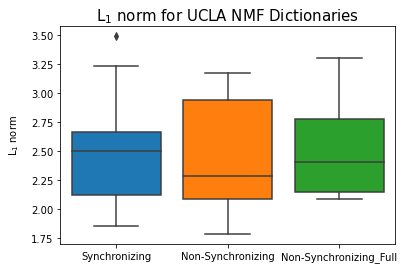
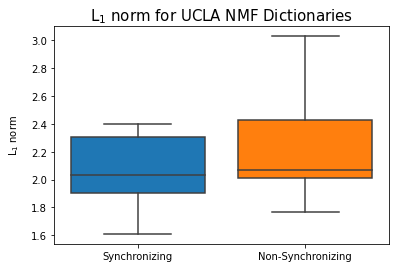
update

Changed region(s): [[0.0, 0.0896, 1.0, 0.9851], [0.2127, 0.0299, 0.9114, 0.0896], [0.2734, 0.1194, 0.3038, 0.1493]]

diff --git a/GHM/GHM_NMF.py b/GHM/GHM_NMF.py
@@ -33,7 +33,6 @@ b = WSD.copy()
 list_keys = list(WSD.keys())
 y = b['label']
 df_True = b[y == 1]
-print(df_True.shape)
 df_False = b[y == 0]
 title1 = 'Adj_Matrix for NWS_GHM Sync'
 title2 = 'Adj_Matrix for NWS_GHM Non-Sync'
@@ -43,7 +42,6 @@ title2 = 'Adj_Matrix for NWS_GHM Non-Sync'
 
 
 c_True = df_True.iloc[0:3972, df_True.columns.get_loc('E_0_0'):df_True.columns.get_loc('S_0_0')]
-print(c_True.shape)
 c_False = df_False.loc[:,'E_0_0':'E_24_24']
 X_True = c_True.values.transpose()
 X_False = c_False.values.transpose()
@@ -58,7 +56,7 @@ W_True, H_True = NMF_Class.ALS(X=X_True,
            compute_recons_error=True,
            subsample_ratio=1)
 
-print(f"Shape of X_True: {X_True.shape}\nShape of W_True: {W_True.shape}\nShape of H_True: {H_True.shape}")
+# print(f"Shape of X_True: {X_True.shape}\nShape of W_True: {W_True.shape}\nShape of H_True: {H_True.shape}")
 
 W_False, H_False = NMF_Class.ALS(X=X_False, 
            n_components=16, # Reconstruction Error reduces as n_components increases
@@ -73,7 +71,7 @@ W_False, H_False = NMF_Class.ALS(X=X_False,
 
 
 
-print(f"Shape of X_False: {X_False.shape}\nShape of W_False: {W_False.shape}\nShape of H_False: {H_False.shape}")
+# print(f"Shape of X_False: {X_False.shape}\nShape of W_False: {W_False.shape}\nShape of H_False: {H_False.shape}")
 Display_Class.display_dictionary(title = title1, W=X_True[:,:100], figsize=[20,20])
 Display_Class.display_dictionary(title = title2, W=X_False[:,:100], figsize=[20,20])
 Display_Class.display_dict_and_graph(title='W_True-25-walks-NWS-importance',
@@ -97,13 +95,12 @@ n=8
 Display_Class.plot_adj_to_graph_deg(W_True, W_False, n, True, title = 'NWS_GHM_Dict_to_Graph_Deg')
 
 true_norm = np.linalg.norm(W_True.T, ord=1, axis=1)
-print(true_norm)
 false_norm = np.linalg.norm(W_False.T, ord=1, axis=1)
 
 data_arr = np.stack((true_norm, false_norm), axis=0).T
 df_boxplot = pd.DataFrame(data_arr, columns = ['Synchronizing','Non-Synchronizing'])
 
-ax = sb.boxplot(data=df_boxplot, saturation=1)
+ax = sb.boxplot(data=df_boxplot, saturation=1, showfliers = False)
 ax.axes.set_title("L$_1$ norm for NWS NMF Dictionaries", fontsize=15)
 plt.ylabel("L$_1$ norm", labelpad=10)
 plt.show()
@@ -114,8 +111,9 @@ print(len(false_norm_real))
 data_arr_real = np.stack((true_norm_real, false_norm_real), axis=0).T
 df_boxplot_real = pd.DataFrame(data_arr_real, columns = ['Synchronizing','Non-Synchronizing'])
 
-ax = sb.boxplot(data=df_boxplot_real, saturation=1)
+ax = sb.boxplot(data=df_boxplot_real, saturation=1, showfliers = False)
 ax.axes.set_title("L$_1$ norm for NWS NMF Dictionaries", fontsize=15)
+ax.axes.set_title("L$_1$ norm for NWS NMF Adjacency Matrix", fontsize=15)
 plt.ylabel("L$_1$ norm", labelpad=10);
 plt.show()
 """
@@ -136,7 +134,8 @@ title4 = 'Adj_Matrix for UCLA26_GHM Non-Sync'
 
 
 
-c_True = df_True.loc[:623, 'E_0_0':'E_24_24']
+c_True = df_True.iloc[:623, df_True.columns.get_loc('E_0_0'):df_True.columns.get_loc('S_0_0')]
+print(c_True.shape)
 c_False = df_False.loc[:,'E_0_0':'E_24_24']
 X_True = c_True.values.transpose()
 X_False = c_False.values.transpose()
@@ -151,7 +150,7 @@ W_True, H_True = NMF_Class.ALS(X=X_True,
            compute_recons_error=True,
            subsample_ratio=1)
 
-print(f"Shape of X_True: {X_True.shape}\nShape of W_True: {W_True.shape}\nShape of H_True: {H_True.shape}")
+# print(f"Shape of X_True: {X_True.shape}\nShape of W_True: {W_True.shape}\nShape of H_True: {H_True.shape}")
 
 
 W_False, H_False = NMF_Class.ALS(X=X_False, 
@@ -165,7 +164,7 @@ W_False, H_False = NMF_Class.ALS(X=X_False,
            compute_recons_error=True,
            subsample_ratio=1)
 
-print(f"Shape of X_False: {X_False.shape}\nShape of W_False: {W_False.shape}\nShape of H_False: {H_False.shape}")
+# print(f"Shape of X_False: {X_False.shape}\nShape of W_False: {W_False.shape}\nShape of H_False: {H_False.shape}")
 Display_Class.display_dictionary(title3, W=X_True[:,:100], figsize=[20,20])
 Display_Class.display_dictionary(title4, X_False[:,:100], figsize=[20,20])
 Display_Class.display_dict_and_graph(title='W_True-25-walks-UCLA-importance',
@@ -192,10 +191,21 @@ data_arr = np.stack((true_norm, false_norm), axis=0).T
 df_boxplot = pd.DataFrame(data_arr, columns = ['Synchronizing','Non-Synchronizing'])
 df_boxplot
 
-ax = sb.boxplot(data=df_boxplot, saturation=1)
+ax = sb.boxplot(data=df_boxplot, saturation=1, showfliers = False)
 ax.axes.set_title("L$_1$ norm for UCLA NMF Dictionaries", fontsize=15)
 plt.ylabel("L$_1$ norm", labelpad=10)
+plt.show()
+true_norm_real = np.linalg.norm(c_True, ord=1, axis=0)
+false_norm_real = np.linalg.norm(c_False, ord=1, axis=0)
+print(len(true_norm_real))
+print(len(false_norm_real))
+data_arr_real = np.stack((true_norm_real, false_norm_real), axis=0).T
+df_boxplot_real = pd.DataFrame(data_arr_real, columns = ['Synchronizing','Non-Synchronizing'])
 
+ax = sb.boxplot(data=df_boxplot_real, saturation=1, showfliers = False)
+ax.axes.set_title("L$_1$ norm for UCLA NMF Adjacency Matrix", fontsize=15)
+plt.ylabel("L$_1$ norm", labelpad=10);
+plt.show()
 
 """
 Caltech Graph GHM
@@ -215,7 +225,7 @@ title4 = 'Adj_Matrix for Wisconsin87_GHM Non-Sync'
 
 
 c_True = df_True.loc[:, 'E_0_0':'E_24_24']
-c_False = df_False.loc[:4778,'E_0_0':'E_24_24']
+c_False = df_False.iloc[:4778,df_False.columns.get_loc('E_0_0'):df_False.columns.get_loc('S_0_0')]
 X_True = c_True.values.transpose()
 X_False = c_False.values.transpose()
 W_True, H_True = NMF_Class.ALS(X=X_True, 
@@ -242,7 +252,7 @@ W_False, H_False = NMF_Class.ALS(X=X_False,
            compute_recons_error=True,
            subsample_ratio=1)
 
-print(f"Shape of X_False: {X_False.shape}\nShape of W_False: {W_False.shape}\nShape of H_False: {H_False.shape}")
+# print(f"Shape of X_False: {X_False.shape}\nShape of W_False: {W_False.shape}\nShape of H_False: {H_False.shape}")
 Display_Class.display_dictionary(title3, W=X_True[:,:100], figsize=[20,20])
 Display_Class.display_dictionary(title4, X_False[:,:100], figsize=[20,20])
 Display_Class.display_dict_and_graph(title='W_True-25-walks-Caltech-importance',
@@ -270,8 +280,17 @@ data_arr = np.stack((true_norm, false_norm), axis=0).T
 df_boxplot = pd.DataFrame(data_arr, columns = ['Synchronizing','Non-Synchronizing'])
 df_boxplot
 
-ax = sb.boxplot(data=df_boxplot, saturation=1)
+ax = sb.boxplot(data=df_boxplot, saturation=1, showfliers = False)
 ax.axes.set_title("L$_1$ norm for Caltech NMF Dictionaries", fontsize=15)
 plt.ylabel("L$_1$ norm", labelpad=10);
+plt.show()
 
+true_norm_real = np.linalg.norm(c_True, ord=1, axis=0)
+false_norm_real = np.linalg.norm(c_False, ord=1, axis=0)
+data_arr_real = np.stack((true_norm_real, false_norm_real), axis=0).T
+df_boxplot_real = pd.DataFrame(data_arr_real, columns = ['Synchronizing','Non-Synchronizing'])
 
+ax = sb.boxplot(data=df_boxplot_real, saturation=1, showfliers = False)
+ax.axes.set_title("L$_1$ norm for Caltech NMF Adjacency Matrix", fontsize=15)
+plt.ylabel("L$_1$ norm", labelpad=10);
+plt.show()

diff --git a/GHM/GHM_Supervised.py b/GHM/GHM_Supervised.py
@@ -30,9 +30,6 @@ from sklearn.ensemble import RandomForestClassifier as rf
 from sklearn.svm import SVC
 from GHM_Classes.Display import Display
 from GHM_Classes.NMF import NMF
-
-
-
 warnings.filterwarnings("ignore")
 Display_Class = Display()
 NMF_Class = NMF()
@@ -44,7 +41,7 @@ def twoRandomNumbers(a,b):
     else: return b
 
 
-WSD = pd.read_csv('GHM_Dict_Data_AllStates.csv')
+WSD = pd.read_csv('GHM_Dict_Data_NWS_AllStates.csv')
 
 
 """
@@ -53,7 +50,7 @@ Edge Only Prediction using SNMF, Random Forest, and SVM
 
 print("X", len(WSD.values))
 
-X_Edge = np.array(WSD.iloc[:,7:263])
+X_Edge = np.array(WSD.loc[:,'E_0_0':'E_24_24'])
 Y_Edge = np.array(WSD['label'])
 under_sampler = RandomUnderSampler(random_state=42)
 X_res_Edge, y_res_Edge = under_sampler.fit_resample(X_Edge, Y_Edge)
@@ -92,12 +89,11 @@ Result_Dict_Edge = SNMF_Class.train_logistic(iter=iteration, subsample_size=None
 Y_Test_SNMF_Edge = Result_Dict_Edge['Y_test']
 Y_Pred_SNMF_Edge = Result_Dict_Edge['Y_pred']
 W_Dict_Edge = Result_Dict_Edge['loading']
-print(W_Dict_Edge[0].shape)
 H_Edge = Result_Dict_Edge['code']
 print(H_Edge.shape)
 sb.heatmap(W_Dict_Edge[1], cmap="icefire", cbar=False)
 plt.show()
-Display_Class.display_dictionary(title = 'SNMF_WS_Adj', dictionary_shape = None, W = W_Dict_Edge[0], figsize=[10,10])
+Display_Class.display_dictionary(title = 'SNMF_NWS_Adj', dictionary_shape = None, W = W_Dict_Edge[0], figsize=[10,10])
 Accuracy_SNMF_Edge = Result_Dict_Edge['Accuracy']
 print(Accuracy_SNMF_Edge)
 
@@ -180,7 +176,7 @@ Accuracy_SVM_All = list(np.zeros(Num_Iter_Pick))
 Accuracy_Baseline_All = list(np.zeros(Num_Iter_Pick))
 Reg_Coeff_List = []
 for i in range(Num_Iter_Pick):
-    X = np.array(WSD.iloc[:,7:(279+i*16)])
+    X = np.array(WSD.iloc[:,WSD.columns.get_loc('E_0_0'):(WSD.columns.get_loc('S_0_0')+i*25)])
     Y = np.array(WSD['label'])
     Feat_Shape_Edge = 16
     Feat_Shape_Phase= int(len(X[0])/16) - 16
@@ -250,7 +246,6 @@ for i in range(Num_Iter_Pick):
     sb.heatmap(Reg_Coeff_List, cmap="icefire", cbar=False)
     plt.show()
     print(W_Dict[0].shape[1])
-    Display_Class.display_dictionary_WPhase(title = 'SNMF_WS_Adj_States', dictionary_shape = (Feat_Shape, 16), W = W_Dict[0], figsize=[10,10], W_sep_pos = 256)
     Accuracy_SNMF_All[i] = Result_Dict['Accuracy']
     # conf_matrix_RF = confusion_matrix(y_true = Y_Test_SNMF[0,:], y_pred = Y_Pred_SNMF)
     # disp = ConfusionMatrixDisplay(confusion_matrix=conf_matrix,

diff --git a/GHM/GHM_Execution.py b/GHM/GHM_Execution.py
@@ -53,6 +53,7 @@ GHM_Animation_Class.Animate_GHM2D()
 
 
 """Graph with different number of nodes"""
+
 ncol = 3
 nrow = 1
 fig, axs = plt.subplots(ncols=ncol, nrows=nrow, figsize=(ncol*4, nrow*4))
@@ -221,11 +222,11 @@ axs[1].set_title('UCLA')
 
 axs[2].set_title('Caltech')
 
-axs[0].set_ylim(0,1)
+axs[0].set_ylim(0,1.2)
 
-axs[1].set_ylim(0,1)
+axs[1].set_ylim(0,1.2)
 
-axs[2].set_ylim(0,1)
+axs[2].set_ylim(0,1.2)
 
 fig.tight_layout()
 plt.show()
@@ -276,7 +277,7 @@ plt.xlabel('Grid Graph Side length')
 plt.ylabel('Sync-1 Non-Sync-0')
 plt.title('GHM 2D stochastic with assignment probability 1')  
 plt.ylim(0,1.2)
-plt.legend(['static and excitation','static'])
+plt.legend(['suppress','suppress and excitation'])
 plt.show()     
 """
 """ GHM 2D implementation with different node number with assignment probability 0.8"""
@@ -322,7 +323,7 @@ plt.xlabel('Grid Graph Side length')
 plt.ylabel('Sync-1 Non-Sync-0')
 plt.title('GHM 2D stochastic with assignment probability 0.8')  
 plt.ylim(0,1.2)
-plt.legend(['static and excitation','static'])
+plt.legend(['suppress','suppress and excitation'])
 plt.show()
 """
 """ GHM 2D implementation with different node number with assignment probability 0.6"""
@@ -368,7 +369,7 @@ plt.xlabel('Grid Graph Side length')
 plt.ylabel('Sync-1 Non-Sync-0')
 plt.title('GHM 2D stochastic with assignment probability 0.6')  
 plt.ylim(0,1.2)
-plt.legend(['static and excitation', 'static'])
+plt.legend(['suppress', 'suppress and excitation'])
 plt.show()
 """
 """ GHM 2D implementation with different node number with assignment probability 0.4"""
@@ -414,7 +415,7 @@ plt.xlabel('Grid Graph Side length')
 plt.ylabel('Sync-1 Non-Sync-0')
 plt.title('GHM 2D stochastic with assignment probability 0.4')  
 plt.ylim(0,1.2)
-plt.legend(['static and excitation','static'])
+plt.legend(['suppress','suppress and excitation'])
 plt.show()
 """
 """ GHM 2D implementation with different node number with assignment probability 0.2"""
@@ -460,5 +461,6 @@ plt.xlabel('Grid Graph Side length')
 plt.ylabel('Sync-1 Non-Sync-0')
 plt.title('GHM 2D stochastic with assignment probability 0.2')  
 plt.ylim(0,1.2)
-plt.legend(['static and excitation', 'static'])
-plt.show()"""
+plt.legend(['suppress', 'suppress and excitation'])
+plt.show()
+"""

diff --git a/GHM/GHM_Classes/GHM.py b/GHM/GHM_Classes/GHM.py
@@ -187,10 +187,12 @@ class GHM:
                     if P <= Cut:
                         SN[j] = 0
                     else:
-                        SN[j] = (SN[j] + 1) % self.Kap
+                        SN[j] = 1
                 elif S_Temp[j] == 0 and Onein:
                     if P <= Cut:
-                        SN[j] = 1 % self.Kap
+                        SN[j] = 1 
+                    else:
+                        SN[j] = 0
                 else:
                     if (S_Temp[j] + 1) % self.Kap == 0:                        
                         SN[j]=0
